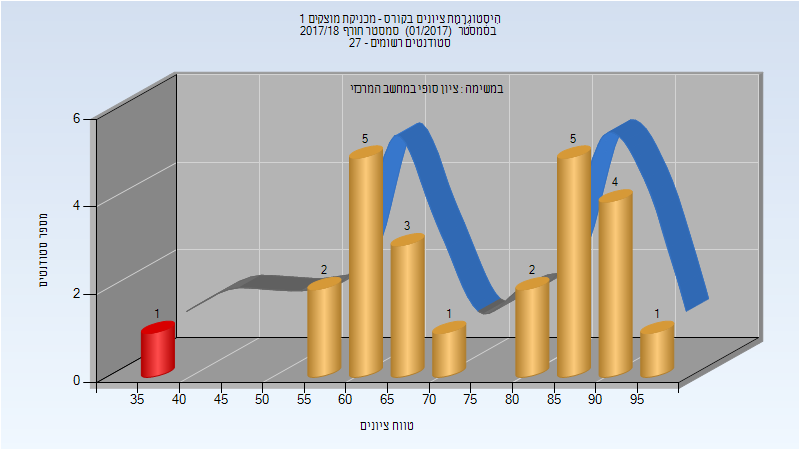
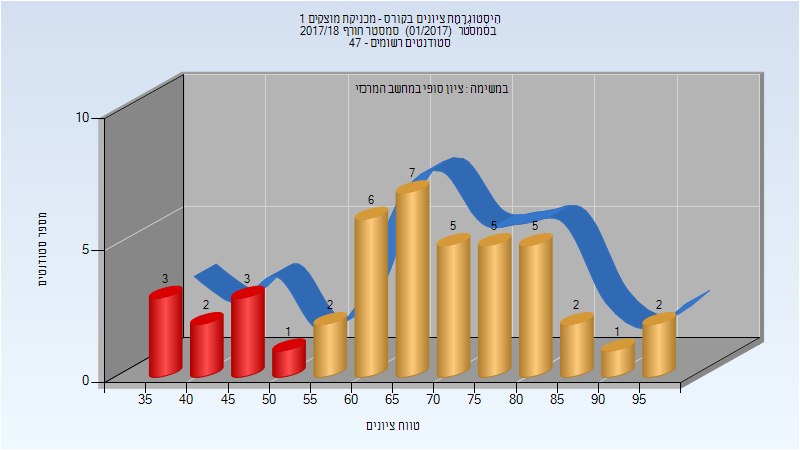
Deploy michael-maltsev/technion-histograms to github.com/michael-maltsev/technion-histograms.git:gh-pages

diff --git a/034028/index.html b/034028/index.html
@@ -719,8 +719,12 @@
 </thead>
 <tbody>
 <tr>
-<td>ברונשטיין אמיל</td>
+<td>צליל שלי</td>
 <td>מרצה - אחראי מקצוע</td>
+</tr>
+<tr>
+<td>חן שגיא</td>
+<td>מתרגל - עם הרשאות מרצה אחראי</td>
 </tr>
 </tbody>
 </table>
@@ -844,13 +848,13 @@
 </thead>
 <tbody>
 <tr>
-<td>24</td>
-<td>23/1</td>
-<td>96</td>
-<td>36</td>
-<td>98</td>
-<td>74.5</td>
-<td>75.5</td>
+<td>44</td>
+<td>35/9</td>
+<td>80</td>
+<td>38</td>
+<td>99</td>
+<td>67.659</td>
+<td>69</td>
 </tr>
 </tbody>
 </table>

diff --git a/034028/README.md b/034028/README.md
@@ -223,7 +223,8 @@
 
 | איש סגל | תפקיד |
 | ---- | ---- |
-| ברונשטיין אמיל | מרצה - אחראי מקצוע |
+| צליל שלי | מרצה - אחראי מקצוע |
+| חן שגיא | מתרגל - עם הרשאות מרצה אחראי |
 
 ### מבחן מועד א'
 
@@ -263,7 +264,7 @@
 
 | סטודנטים | עברו/נכשלו | אחוז עוברים | ציון מינימלי | ציון מקסימלי | ממוצע | חציון |
 | ---- | ---- | ---- | ---- | ---- | ---- | ---- |
-| 24 | 23/1 | 96 | 36 | 98 | 74.5 | 75.5 |
+| 44 | 35/9 | 80 | 38 | 99 | 67.659 | 69 |
 
 ## אביב 2018
 
